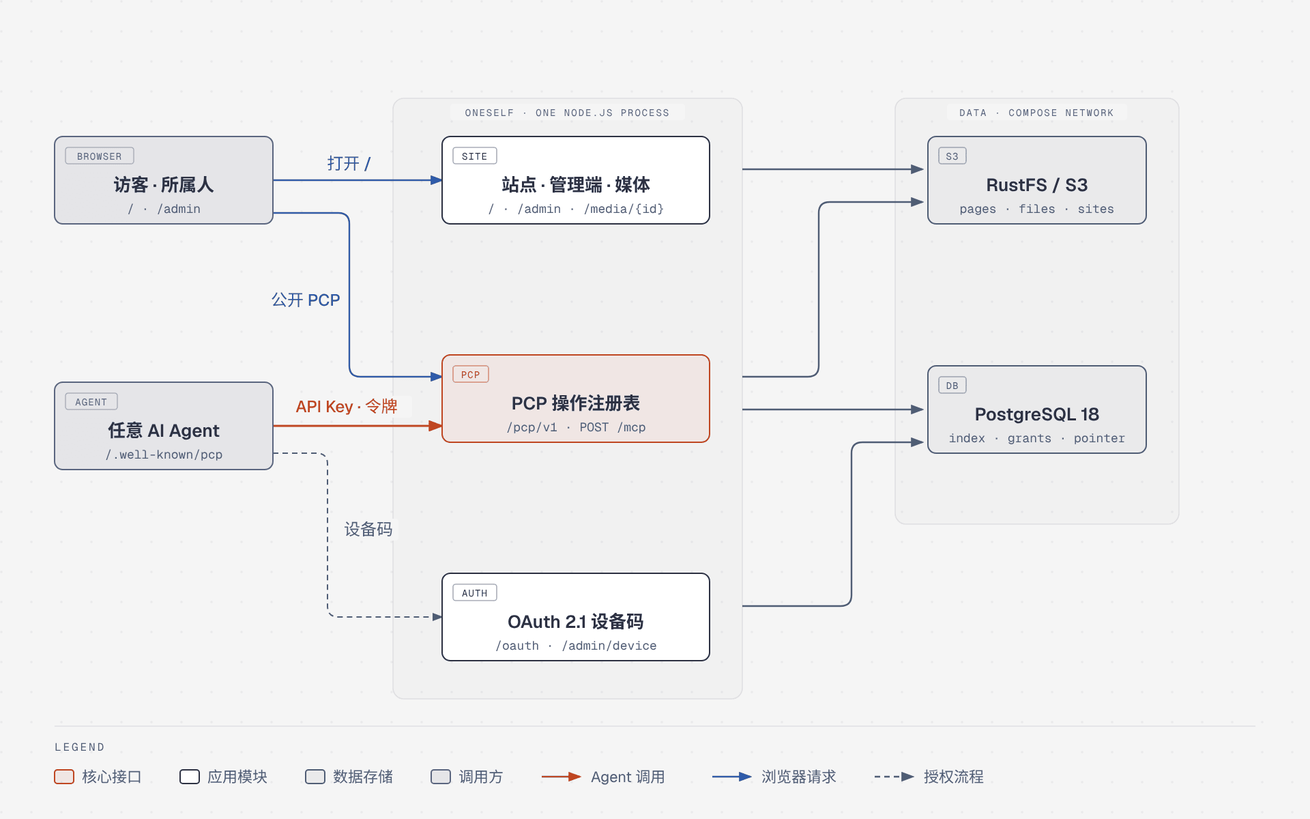
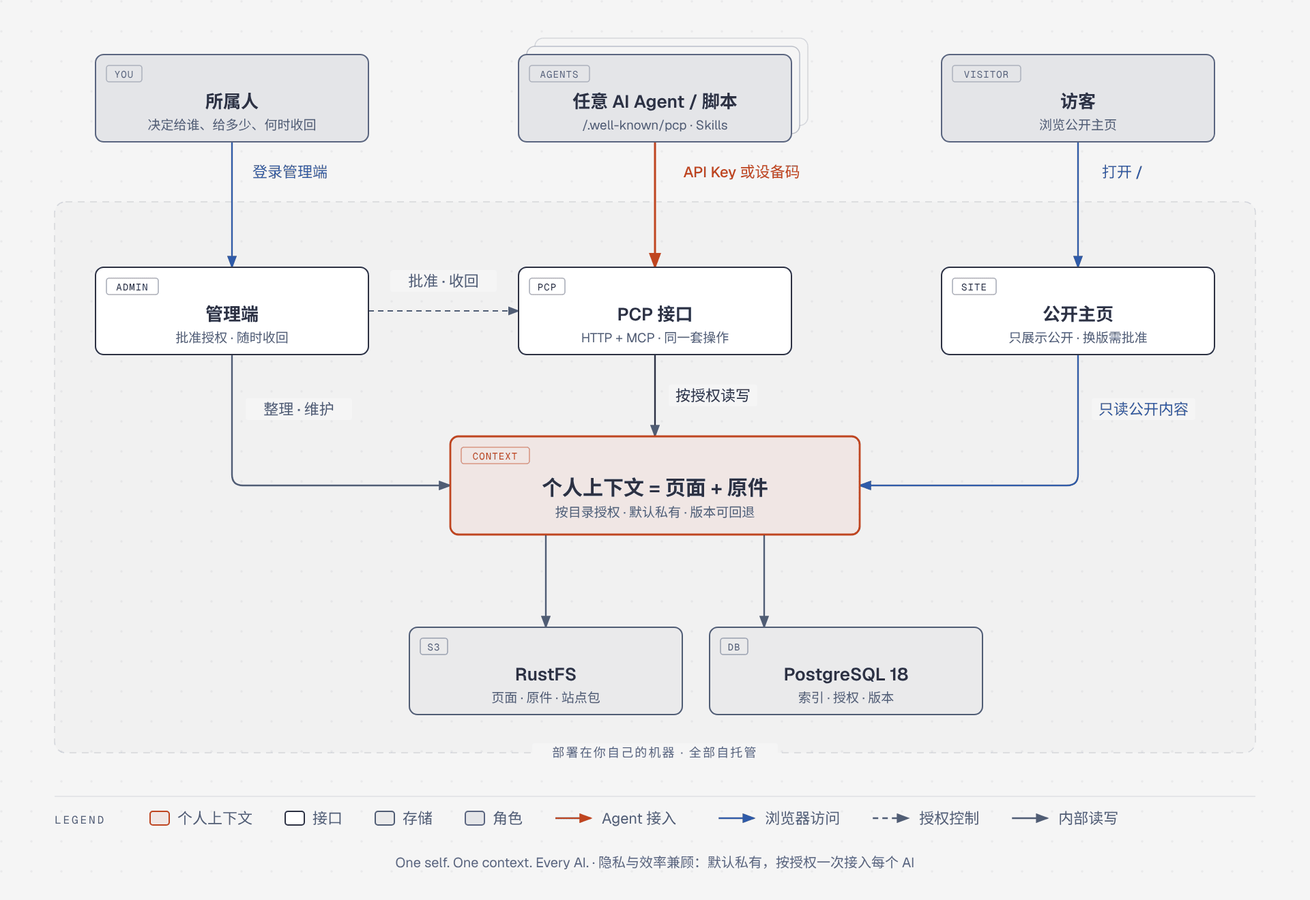
docs: unify terminology and redraw architecture diagram
Repo-wide: 主人 -> 所属人; agents described uniformly (API Key or OAuth device code, both approved by the account owner); positioning as personal context management across PRD, ARCHITECTURE, openspec, skills, admin UI and .env.example. New top-down architecture diagram centred on personal context (pages + originals). Tests updated for skill wording.

diff --git a/docs/diagrams/architecture.html b/docs/diagrams/architecture.html
@@ -3,7 +3,7 @@
 <head>
   <meta charset="UTF-8">
   <meta name="viewport" content="width=device-width, initial-scale=1.0">
-  <title>OneSelf · 系统架构</title>
+  <title>OneSelf · 架构</title>
   <link href="https://fonts.googleapis.com/css2?family=Instrument+Serif:ital@0;1&family=Geist:wght@400;500;600&family=Geist+Mono:wght@400;500;600&family=Noto+Sans+SC:wght@400;500;600&display=swap" rel="stylesheet">
   <style>
     *, *::before, *::after { box-sizing: border-box; margin: 0; padding: 0; }
@@ -20,11 +20,11 @@
 <body>
   <div class="frame">
     <p class="eyebrow">Architecture · OneSelf</p>
-    <h1>OneSelf 系统架构</h1>
+    <h1>OneSelf 架构：开源个人上下文管理</h1>
     <div class="diagram-container">
-    <svg viewBox="0 0 960 600" xmlns="http://www.w3.org/2000/svg" role="img" aria-labelledby="oneself-architecture-title oneself-architecture-desc">
-  <title id="oneself-architecture-title">OneSelf 系统架构</title>
-  <desc id="oneself-architecture-desc">访客和所属人的浏览器打开按指针提供的站点与管理端，页面脚本匿名读取公开 PCP；任意 AI Agent 用所属人批准的 API Key 或 OAuth 2.1 设备码换来的访问令牌，调用同一份 PCP 操作注册表（HTTP 与 MCP）；单个 Node.js 进程把页面原文、原件和站点包存进 RustFS，把索引、授权和站点指针存进 PostgreSQL。</desc>
+    <svg viewBox="0 0 960 660" xmlns="http://www.w3.org/2000/svg" role="img" aria-labelledby="oneself-architecture-title oneself-architecture-desc">
+  <title id="oneself-architecture-title">OneSelf 架构：开源个人上下文管理</title>
+  <desc id="oneself-architecture-desc">所属人通过管理端批准授权、随时收回，也在管理端整理和维护个人上下文；任意 AI Agent 或脚本经所属人批准的 API Key 或 OAuth 2.1 设备码接入 PCP 接口（HTTP 与 MCP 是同一套操作），按授权读写；访客打开公开主页，页面只读取公开内容，换版需要所属人批准。个人上下文由页面和原件组成，按目录授权、默认私有、版本可回退；页面、原件和站点包存进 RustFS，索引、授权和版本存进 PostgreSQL，全部部署在你自己的机器上。</desc>
   <defs>
     <pattern id="dots" width="22" height="22" patternUnits="userSpaceOnUse"><circle cx="1" cy="1" r="0.9" fill="rgba(45,49,66,0.10)"/></pattern>
     <marker id="arrow" markerWidth="8" markerHeight="6" refX="7" refY="3" orient="auto"><polygon points="0 0, 8 3, 0 6" fill="#4f5d75"/></marker>
@@ -33,86 +33,107 @@
   </defs>
   <rect width="100%" height="100%" fill="#f5f5f5"/>
   <rect width="100%" height="100%" fill="url(#dots)" opacity="0.55"/>
-  <rect x="288" y="72" width="256" height="440" rx="8" fill="rgba(45,49,66,0.02)" stroke="rgba(45,49,66,0.10)" stroke-width="0.8"/>
-  <rect x="330.0" y="76" width="172" height="12" rx="2" fill="#f5f5f5"/>
-  <text x="416.0" y="85" fill="#5a6580" font-size="7" font-family="'Geist Mono',ui-monospace,monospace" text-anchor="middle" letter-spacing="0.14em">ONESELF · ONE NODE.JS PROCESS</text>
-  <rect x="656" y="72" width="208" height="312" rx="8" fill="rgba(45,49,66,0.02)" stroke="rgba(45,49,66,0.10)" stroke-width="0.8"/>
-  <rect x="694.0" y="76" width="132" height="12" rx="2" fill="#f5f5f5"/>
-  <text x="760.0" y="85" fill="#5a6580" font-size="7" font-family="'Geist Mono',ui-monospace,monospace" text-anchor="middle" letter-spacing="0.14em">DATA · COMPOSE NETWORK</text>
-  <path d="M 200,132 H 324" fill="none" stroke="#2e5aa8" stroke-width="1.2" marker-end="url(#arrow-link)"/>
-  <path d="M 200,156 H 248 Q 256,156 256,164 V 268 Q 256,276 264,276 H 324" fill="none" stroke="#2e5aa8" stroke-width="1.2" marker-end="url(#arrow-link)"/>
-  <path d="M 200,312 H 324" fill="none" stroke="#bf4520" stroke-width="1.4" marker-end="url(#arrow-accent)"/>
-  <path d="M 200,332 H 232 Q 240,332 240,340 V 444 Q 240,452 248,452 H 324" fill="none" stroke="#4f5d75" stroke-width="1" stroke-dasharray="4,3" marker-end="url(#arrow)"/>
-  <path d="M 544,124 H 676" fill="none" stroke="#4f5d75" stroke-width="1.2" marker-end="url(#arrow)"/>
-  <path d="M 544,276 H 592 Q 600,276 600,268 V 156 Q 600,148 608,148 H 676" fill="none" stroke="#4f5d75" stroke-width="1.2" marker-end="url(#arrow)"/>
-  <path d="M 544,300 H 676" fill="none" stroke="#4f5d75" stroke-width="1.2" marker-end="url(#arrow)"/>
-  <path d="M 544,444 H 616 Q 624,444 624,436 V 332 Q 624,324 632,324 H 676" fill="none" stroke="#4f5d75" stroke-width="1.2" marker-end="url(#arrow)"/>
-  <rect x="228" y="112" width="56" height="16" rx="2" fill="#f5f5f5"/>
-  <text x="256.0" y="124" fill="#2e5aa8" font-size="12" font-weight="500" font-family="'Geist','Noto Sans SC','PingFang SC','Noto Sans CJK SC','Microsoft YaHei',system-ui,sans-serif" text-anchor="middle">打开 /</text>
-  <rect x="196" y="212" width="56" height="16" rx="2" fill="#f5f5f5"/>
-  <text x="224.0" y="224" fill="#2e5aa8" font-size="12" font-weight="500" font-family="'Geist','Noto Sans SC','PingFang SC','Noto Sans CJK SC','Microsoft YaHei',system-ui,sans-serif" text-anchor="middle">公开 PCP</text>
-  <rect x="206" y="290" width="96" height="16" rx="2" fill="#f5f5f5"/>
-  <text x="254.0" y="302" fill="#bf4520" font-size="12" font-weight="500" font-family="'Geist','Noto Sans SC','PingFang SC','Noto Sans CJK SC','Microsoft YaHei',system-ui,sans-serif" text-anchor="middle">API Key · 令牌</text>
-  <rect x="248" y="380" width="44" height="16" rx="2" fill="#f5f5f5"/>
-  <text x="270.0" y="392" fill="#4f5d75" font-size="12" font-weight="500" font-family="'Geist','Noto Sans SC','PingFang SC','Noto Sans CJK SC','Microsoft YaHei',system-ui,sans-serif" text-anchor="middle">设备码</text>
-  <rect x="40" y="100" width="160" height="64" rx="6" fill="#f5f5f5"/>
-  <rect x="40" y="100" width="160" height="64" rx="6" fill="rgba(79,93,117,0.10)" stroke="#5a6580" stroke-width="1"/>
-  <rect x="48" y="108" width="50" height="12" rx="2" fill="transparent" stroke="rgba(90,101,128,0.40)" stroke-width="0.8"/>
-  <text x="73.0" y="117" fill="#5a6580" font-size="7" font-family="'Geist Mono',ui-monospace,monospace" text-anchor="middle" letter-spacing="0.08em">BROWSER</text>
-  <text x="120.0" y="140.0" fill="#2d3142" font-size="13" font-weight="600" font-family="'Geist','Noto Sans SC','PingFang SC','Noto Sans CJK SC','Microsoft YaHei',system-ui,sans-serif" text-anchor="middle">访客 · 所属人</text>
-  <text x="120.0" y="156.0" fill="#4f5d75" font-size="9" font-family="'Geist Mono',ui-monospace,monospace" text-anchor="middle">/ · /admin</text>
-  <rect x="40" y="280" width="160" height="64" rx="6" fill="#f5f5f5"/>
-  <rect x="40" y="280" width="160" height="64" rx="6" fill="rgba(79,93,117,0.10)" stroke="#5a6580" stroke-width="1"/>
-  <rect x="48" y="288" width="38" height="12" rx="2" fill="transparent" stroke="rgba(90,101,128,0.40)" stroke-width="0.8"/>
-  <text x="67.0" y="297" fill="#5a6580" font-size="7" font-family="'Geist Mono',ui-monospace,monospace" text-anchor="middle" letter-spacing="0.08em">AGENT</text>
-  <text x="120.0" y="320.0" fill="#2d3142" font-size="13" font-weight="600" font-family="'Geist','Noto Sans SC','PingFang SC','Noto Sans CJK SC','Microsoft YaHei',system-ui,sans-serif" text-anchor="middle">任意 AI Agent</text>
-  <text x="120.0" y="336.0" fill="#4f5d75" font-size="9" font-family="'Geist Mono',ui-monospace,monospace" text-anchor="middle">/.well-known/pcp</text>
-  <rect x="324" y="100" width="196" height="64" rx="6" fill="#f5f5f5"/>
-  <rect x="324" y="100" width="196" height="64" rx="6" fill="#ffffff" stroke="#2d3142" stroke-width="1"/>
-  <rect x="332" y="108" width="32" height="12" rx="2" fill="transparent" stroke="rgba(45,49,66,0.40)" stroke-width="0.8"/>
-  <text x="348.0" y="117" fill="#2d3142" font-size="7" font-family="'Geist Mono',ui-monospace,monospace" text-anchor="middle" letter-spacing="0.08em">SITE</text>
-  <text x="422.0" y="140.0" fill="#2d3142" font-size="13" font-weight="600" font-family="'Geist','Noto Sans SC','PingFang SC','Noto Sans CJK SC','Microsoft YaHei',system-ui,sans-serif" text-anchor="middle">站点 · 管理端 · 媒体</text>
-  <text x="422.0" y="156.0" fill="#4f5d75" font-size="9" font-family="'Geist Mono',ui-monospace,monospace" text-anchor="middle">/ · /admin · /media/{id}</text>
-  <rect x="324" y="260" width="196" height="64" rx="6" fill="#f5f5f5"/>
-  <rect x="324" y="260" width="196" height="64" rx="6" fill="rgba(191,69,32,0.08)" stroke="#bf4520" stroke-width="1"/>
-  <rect x="332" y="268" width="26" height="12" rx="2" fill="transparent" stroke="rgba(191,69,32,0.50)" stroke-width="0.8"/>
-  <text x="345.0" y="277" fill="#bf4520" font-size="7" font-family="'Geist Mono',ui-monospace,monospace" text-anchor="middle" letter-spacing="0.08em">PCP</text>
-  <text x="422.0" y="300.0" fill="#2d3142" font-size="13" font-weight="600" font-family="'Geist','Noto Sans SC','PingFang SC','Noto Sans CJK SC','Microsoft YaHei',system-ui,sans-serif" text-anchor="middle">PCP 操作注册表</text>
-  <text x="422.0" y="316.0" fill="#4f5d75" font-size="9" font-family="'Geist Mono',ui-monospace,monospace" text-anchor="middle">/pcp/v1 · POST /mcp</text>
-  <rect x="324" y="420" width="196" height="64" rx="6" fill="#f5f5f5"/>
-  <rect x="324" y="420" width="196" height="64" rx="6" fill="#ffffff" stroke="#2d3142" stroke-width="1"/>
-  <rect x="332" y="428" width="32" height="12" rx="2" fill="transparent" stroke="rgba(45,49,66,0.40)" stroke-width="0.8"/>
-  <text x="348.0" y="437" fill="#2d3142" font-size="7" font-family="'Geist Mono',ui-monospace,monospace" text-anchor="middle" letter-spacing="0.08em">AUTH</text>
-  <text x="422.0" y="460.0" fill="#2d3142" font-size="13" font-weight="600" font-family="'Geist','Noto Sans SC','PingFang SC','Noto Sans CJK SC','Microsoft YaHei',system-ui,sans-serif" text-anchor="middle">OAuth 2.1 设备码</text>
-  <text x="422.0" y="476.0" fill="#4f5d75" font-size="9" font-family="'Geist Mono',ui-monospace,monospace" text-anchor="middle">/oauth · /admin/device</text>
-  <rect x="680" y="100" width="160" height="64" rx="6" fill="#f5f5f5"/>
-  <rect x="680" y="100" width="160" height="64" rx="6" fill="rgba(45,49,66,0.05)" stroke="#4f5d75" stroke-width="1"/>
-  <rect x="688" y="108" width="20" height="12" rx="2" fill="transparent" stroke="rgba(79,93,117,0.50)" stroke-width="0.8"/>
-  <text x="698.0" y="117" fill="#4f5d75" font-size="7" font-family="'Geist Mono',ui-monospace,monospace" text-anchor="middle" letter-spacing="0.08em">S3</text>
-  <text x="760.0" y="140.0" fill="#2d3142" font-size="13" font-weight="600" font-family="'Geist','Noto Sans SC','PingFang SC','Noto Sans CJK SC','Microsoft YaHei',system-ui,sans-serif" text-anchor="middle">RustFS / S3</text>
-  <text x="760.0" y="156.0" fill="#4f5d75" font-size="9" font-family="'Geist Mono',ui-monospace,monospace" text-anchor="middle">pages · files · sites</text>
-  <rect x="680" y="268" width="160" height="64" rx="6" fill="#f5f5f5"/>
-  <rect x="680" y="268" width="160" height="64" rx="6" fill="rgba(45,49,66,0.05)" stroke="#4f5d75" stroke-width="1"/>
-  <rect x="688" y="276" width="20" height="12" rx="2" fill="transparent" stroke="rgba(79,93,117,0.50)" stroke-width="0.8"/>
-  <text x="698.0" y="285" fill="#4f5d75" font-size="7" font-family="'Geist Mono',ui-monospace,monospace" text-anchor="middle" letter-spacing="0.08em">DB</text>
-  <text x="760.0" y="308.0" fill="#2d3142" font-size="13" font-weight="600" font-family="'Geist','Noto Sans SC','PingFang SC','Noto Sans CJK SC','Microsoft YaHei',system-ui,sans-serif" text-anchor="middle">PostgreSQL 18</text>
-  <text x="760.0" y="324.0" fill="#4f5d75" font-size="9" font-family="'Geist Mono',ui-monospace,monospace" text-anchor="middle">index · grants · pointer</text>
-  <line x1="40" y1="532" x2="920" y2="532" stroke="rgba(45,49,66,0.10)" stroke-width="0.8"/>
-  <text x="40" y="550" fill="#4f5d75" font-size="8" font-family="'Geist Mono',ui-monospace,monospace" letter-spacing="0.18em">LEGEND</text>
-  <rect x="40" y="564" width="14" height="10" rx="2" fill="rgba(191,69,32,0.08)" stroke="#bf4520" stroke-width="1"/>
-  <text x="60" y="573" fill="#4f5d75" font-size="11" font-family="'Geist','Noto Sans SC','PingFang SC','Noto Sans CJK SC','Microsoft YaHei',system-ui,sans-serif">核心接口</text>
-  <rect x="132" y="564" width="14" height="10" rx="2" fill="#ffffff" stroke="#2d3142" stroke-width="1"/>
-  <text x="152" y="573" fill="#4f5d75" font-size="11" font-family="'Geist','Noto Sans SC','PingFang SC','Noto Sans CJK SC','Microsoft YaHei',system-ui,sans-serif">应用模块</text>
-  <rect x="224" y="564" width="14" height="10" rx="2" fill="rgba(45,49,66,0.05)" stroke="#4f5d75" stroke-width="1"/>
-  <text x="244" y="573" fill="#4f5d75" font-size="11" font-family="'Geist','Noto Sans SC','PingFang SC','Noto Sans CJK SC','Microsoft YaHei',system-ui,sans-serif">数据存储</text>
-  <rect x="316" y="564" width="14" height="10" rx="2" fill="rgba(79,93,117,0.10)" stroke="#5a6580" stroke-width="1"/>
-  <text x="336" y="573" fill="#4f5d75" font-size="11" font-family="'Geist','Noto Sans SC','PingFang SC','Noto Sans CJK SC','Microsoft YaHei',system-ui,sans-serif">调用方</text>
-  <line x1="397" y1="569" x2="425" y2="569" stroke="#bf4520" stroke-width="1.2" marker-end="url(#arrow-accent)"/>
-  <text x="433" y="573" fill="#4f5d75" font-size="11" font-family="'Geist','Noto Sans SC','PingFang SC','Noto Sans CJK SC','Microsoft YaHei',system-ui,sans-serif">Agent 调用</text>
-  <line x1="522.0" y1="569" x2="550.0" y2="569" stroke="#2e5aa8" stroke-width="1.2" marker-end="url(#arrow-link)"/>
-  <text x="558.0" y="573" fill="#4f5d75" font-size="11" font-family="'Geist','Noto Sans SC','PingFang SC','Noto Sans CJK SC','Microsoft YaHei',system-ui,sans-serif">浏览器请求</text>
-  <line x1="641.0" y1="569" x2="669.0" y2="569" stroke="#4f5d75" stroke-width="1.2" stroke-dasharray="4,3" marker-end="url(#arrow)"/>
-  <text x="677.0" y="573" fill="#4f5d75" font-size="11" font-family="'Geist','Noto Sans SC','PingFang SC','Noto Sans CJK SC','Microsoft YaHei',system-ui,sans-serif">授权流程</text>
+  <rect x="40" y="148" width="880" height="404" rx="8" fill="rgba(45,49,66,0.02)" stroke="rgba(45,49,66,0.14)" stroke-width="0.8" stroke-dasharray="5,4"/>
+  <rect x="390.0" y="545" width="180" height="12" rx="2" fill="#f5f5f5"/>
+  <text x="480" y="555" fill="#5a6580" font-size="9" font-family="'Geist','Noto Sans SC','PingFang SC','Noto Sans CJK SC','Microsoft YaHei',system-ui,sans-serif" text-anchor="middle" letter-spacing="0.12em">部署在你自己的机器 · 全部自托管</text>
+  <path d="M 170,104 V 196" fill="none" stroke="#2e5aa8" stroke-width="1.2" marker-end="url(#arrow-link)"/>
+  <path d="M 480,104 V 196" fill="none" stroke="#bf4520" stroke-width="1.5" marker-end="url(#arrow-accent)"/>
+  <path d="M 790,104 V 196" fill="none" stroke="#2e5aa8" stroke-width="1.2" marker-end="url(#arrow-link)"/>
+  <path d="M 270,228 H 380" fill="none" stroke="#4f5d75" stroke-width="1.1" stroke-dasharray="4,3" marker-end="url(#arrow)"/>
+  <path d="M 480,260 V 320" fill="none" stroke="#2d3142" stroke-width="1.2" marker-end="url(#arrow)"/>
+  <path d="M 790,260 V 348 Q 790,356 782,356 H 630" fill="none" stroke="#2e5aa8" stroke-width="1.2" marker-end="url(#arrow-link)"/>
+  <path d="M 170,260 V 348 Q 170,356 178,356 H 330" fill="none" stroke="#4f5d75" stroke-width="1.2" marker-end="url(#arrow)"/>
+  <path d="M 400,392 V 460" fill="none" stroke="#4f5d75" stroke-width="1.2" marker-end="url(#arrow)"/>
+  <path d="M 560,392 V 460" fill="none" stroke="#4f5d75" stroke-width="1.2" marker-end="url(#arrow)"/>
+  <rect x="180" y="118" width="65" height="16" rx="2" fill="#f5f5f5"/>
+  <text x="212.5" y="130" fill="#2e5aa8" font-size="11" font-weight="500" font-family="'Geist','Noto Sans SC','PingFang SC','Noto Sans CJK SC','Microsoft YaHei',system-ui,sans-serif" text-anchor="middle">登录管理端</text>
+  <rect x="490" y="118" width="107" height="16" rx="2" fill="#f5f5f5"/>
+  <text x="543.5" y="130" fill="#bf4520" font-size="11" font-weight="500" font-family="'Geist','Noto Sans SC','PingFang SC','Noto Sans CJK SC','Microsoft YaHei',system-ui,sans-serif" text-anchor="middle">API Key 或设备码</text>
+  <rect x="800" y="118" width="45" height="16" rx="2" fill="#f5f5f5"/>
+  <text x="822.5" y="130" fill="#2e5aa8" font-size="11" font-weight="500" font-family="'Geist','Noto Sans SC','PingFang SC','Noto Sans CJK SC','Microsoft YaHei',system-ui,sans-serif" text-anchor="middle">打开 /</text>
+  <rect x="286.0" y="198" width="78" height="16" rx="2" fill="#f5f5f5"/>
+  <text x="325.0" y="210" fill="#4f5d75" font-size="11" font-weight="500" font-family="'Geist','Noto Sans SC','PingFang SC','Noto Sans CJK SC','Microsoft YaHei',system-ui,sans-serif" text-anchor="middle">批准 · 收回</text>
+  <rect x="490" y="282" width="65" height="16" rx="2" fill="#f5f5f5"/>
+  <text x="522.5" y="294" fill="#2d3142" font-size="11" font-weight="500" font-family="'Geist','Noto Sans SC','PingFang SC','Noto Sans CJK SC','Microsoft YaHei',system-ui,sans-serif" text-anchor="middle">按授权读写</text>
+  <rect x="180" y="292" width="78" height="16" rx="2" fill="#f5f5f5"/>
+  <text x="219.0" y="304" fill="#4f5d75" font-size="11" font-weight="500" font-family="'Geist','Noto Sans SC','PingFang SC','Noto Sans CJK SC','Microsoft YaHei',system-ui,sans-serif" text-anchor="middle">整理 · 维护</text>
+  <rect x="800" y="292" width="76" height="16" rx="2" fill="#f5f5f5"/>
+  <text x="838.0" y="304" fill="#2e5aa8" font-size="11" font-weight="500" font-family="'Geist','Noto Sans SC','PingFang SC','Noto Sans CJK SC','Microsoft YaHei',system-ui,sans-serif" text-anchor="middle">只读公开内容</text>
+  <rect x="392" y="28" width="200" height="64" rx="6" fill="#f5f5f5" stroke="rgba(90,101,128,0.2)" stroke-width="0.8"/>
+  <rect x="386" y="34" width="200" height="64" rx="6" fill="#f5f5f5" stroke="rgba(90,101,128,0.36)" stroke-width="0.8"/>
+  <rect x="70" y="40" width="200" height="64" rx="6" fill="#f5f5f5"/>
+  <rect x="70" y="40" width="200" height="64" rx="6" fill="rgba(79,93,117,0.10)" stroke="#5a6580" stroke-width="1"/>
+  <rect x="78" y="48" width="26" height="12" rx="2" fill="transparent" stroke="rgba(90,101,128,0.40)" stroke-width="0.8"/>
+  <text x="91.0" y="57" fill="#5a6580" font-size="7" font-family="'Geist Mono',ui-monospace,monospace" text-anchor="middle" letter-spacing="0.08em">YOU</text>
+  <text x="170.0" y="79.0" fill="#2d3142" font-size="13" font-weight="600" font-family="'Geist','Noto Sans SC','PingFang SC','Noto Sans CJK SC','Microsoft YaHei',system-ui,sans-serif" text-anchor="middle">所属人</text>
+  <text x="170.0" y="95.0" fill="#4f5d75" font-size="9.5" font-family="'Geist','Noto Sans SC','PingFang SC','Noto Sans CJK SC','Microsoft YaHei',system-ui,sans-serif" text-anchor="middle">决定给谁、给多少、何时收回</text>
+  <rect x="380" y="40" width="200" height="64" rx="6" fill="#f5f5f5"/>
+  <rect x="380" y="40" width="200" height="64" rx="6" fill="rgba(79,93,117,0.10)" stroke="#5a6580" stroke-width="1"/>
+  <rect x="388" y="48" width="44" height="12" rx="2" fill="transparent" stroke="rgba(90,101,128,0.40)" stroke-width="0.8"/>
+  <text x="410.0" y="57" fill="#5a6580" font-size="7" font-family="'Geist Mono',ui-monospace,monospace" text-anchor="middle" letter-spacing="0.08em">AGENTS</text>
+  <text x="480.0" y="79.0" fill="#2d3142" font-size="13" font-weight="600" font-family="'Geist','Noto Sans SC','PingFang SC','Noto Sans CJK SC','Microsoft YaHei',system-ui,sans-serif" text-anchor="middle">任意 AI Agent / 脚本</text>
+  <text x="480.0" y="95.0" fill="#4f5d75" font-size="9.5" font-family="'Geist','Noto Sans SC','PingFang SC','Noto Sans CJK SC','Microsoft YaHei',system-ui,sans-serif" text-anchor="middle">/.well-known/pcp · Skills</text>
+  <rect x="690" y="40" width="200" height="64" rx="6" fill="#f5f5f5"/>
+  <rect x="690" y="40" width="200" height="64" rx="6" fill="rgba(79,93,117,0.10)" stroke="#5a6580" stroke-width="1"/>
+  <rect x="698" y="48" width="50" height="12" rx="2" fill="transparent" stroke="rgba(90,101,128,0.40)" stroke-width="0.8"/>
+  <text x="723.0" y="57" fill="#5a6580" font-size="7" font-family="'Geist Mono',ui-monospace,monospace" text-anchor="middle" letter-spacing="0.08em">VISITOR</text>
+  <text x="790.0" y="79.0" fill="#2d3142" font-size="13" font-weight="600" font-family="'Geist','Noto Sans SC','PingFang SC','Noto Sans CJK SC','Microsoft YaHei',system-ui,sans-serif" text-anchor="middle">访客</text>
+  <text x="790.0" y="95.0" fill="#4f5d75" font-size="9.5" font-family="'Geist','Noto Sans SC','PingFang SC','Noto Sans CJK SC','Microsoft YaHei',system-ui,sans-serif" text-anchor="middle">浏览公开主页</text>
+  <rect x="70" y="196" width="200" height="64" rx="6" fill="#f5f5f5"/>
+  <rect x="70" y="196" width="200" height="64" rx="6" fill="#ffffff" stroke="#2d3142" stroke-width="1"/>
+  <rect x="78" y="204" width="38" height="12" rx="2" fill="transparent" stroke="rgba(45,49,66,0.40)" stroke-width="0.8"/>
+  <text x="97.0" y="213" fill="#2d3142" font-size="7" font-family="'Geist Mono',ui-monospace,monospace" text-anchor="middle" letter-spacing="0.08em">ADMIN</text>
+  <text x="170.0" y="235.0" fill="#2d3142" font-size="13" font-weight="600" font-family="'Geist','Noto Sans SC','PingFang SC','Noto Sans CJK SC','Microsoft YaHei',system-ui,sans-serif" text-anchor="middle">管理端</text>
+  <text x="170.0" y="251.0" fill="#4f5d75" font-size="9.5" font-family="'Geist','Noto Sans SC','PingFang SC','Noto Sans CJK SC','Microsoft YaHei',system-ui,sans-serif" text-anchor="middle">批准授权 · 随时收回</text>
+  <rect x="380" y="196" width="200" height="64" rx="6" fill="#f5f5f5"/>
+  <rect x="380" y="196" width="200" height="64" rx="6" fill="#ffffff" stroke="#2d3142" stroke-width="1"/>
+  <rect x="388" y="204" width="26" height="12" rx="2" fill="transparent" stroke="rgba(45,49,66,0.40)" stroke-width="0.8"/>
+  <text x="401.0" y="213" fill="#2d3142" font-size="7" font-family="'Geist Mono',ui-monospace,monospace" text-anchor="middle" letter-spacing="0.08em">PCP</text>
+  <text x="480.0" y="235.0" fill="#2d3142" font-size="13" font-weight="600" font-family="'Geist','Noto Sans SC','PingFang SC','Noto Sans CJK SC','Microsoft YaHei',system-ui,sans-serif" text-anchor="middle">PCP 接口</text>
+  <text x="480.0" y="251.0" fill="#4f5d75" font-size="9.5" font-family="'Geist','Noto Sans SC','PingFang SC','Noto Sans CJK SC','Microsoft YaHei',system-ui,sans-serif" text-anchor="middle">HTTP + MCP · 同一套操作</text>
+  <rect x="690" y="196" width="200" height="64" rx="6" fill="#f5f5f5"/>
+  <rect x="690" y="196" width="200" height="64" rx="6" fill="#ffffff" stroke="#2d3142" stroke-width="1"/>
+  <rect x="698" y="204" width="32" height="12" rx="2" fill="transparent" stroke="rgba(45,49,66,0.40)" stroke-width="0.8"/>
+  <text x="714.0" y="213" fill="#2d3142" font-size="7" font-family="'Geist Mono',ui-monospace,monospace" text-anchor="middle" letter-spacing="0.08em">SITE</text>
+  <text x="790.0" y="235.0" fill="#2d3142" font-size="13" font-weight="600" font-family="'Geist','Noto Sans SC','PingFang SC','Noto Sans CJK SC','Microsoft YaHei',system-ui,sans-serif" text-anchor="middle">公开主页</text>
+  <text x="790.0" y="251.0" fill="#4f5d75" font-size="9.5" font-family="'Geist','Noto Sans SC','PingFang SC','Noto Sans CJK SC','Microsoft YaHei',system-ui,sans-serif" text-anchor="middle">只展示公开 · 换版需批准</text>
+  <rect x="330" y="320" width="300" height="72" rx="6" fill="#f5f5f5"/>
+  <rect x="330" y="320" width="300" height="72" rx="6" fill="rgba(191,69,32,0.08)" stroke="#bf4520" stroke-width="1.4"/>
+  <rect x="338" y="328" width="50" height="12" rx="2" fill="transparent" stroke="rgba(191,69,32,0.50)" stroke-width="0.8"/>
+  <text x="363.0" y="337" fill="#bf4520" font-size="7" font-family="'Geist Mono',ui-monospace,monospace" text-anchor="middle" letter-spacing="0.08em">CONTEXT</text>
+  <text x="480.0" y="363.0" fill="#2d3142" font-size="15" font-weight="600" font-family="'Geist','Noto Sans SC','PingFang SC','Noto Sans CJK SC','Microsoft YaHei',system-ui,sans-serif" text-anchor="middle">个人上下文 = 页面 + 原件</text>
+  <text x="480.0" y="379.0" fill="#4f5d75" font-size="9.5" font-family="'Geist','Noto Sans SC','PingFang SC','Noto Sans CJK SC','Microsoft YaHei',system-ui,sans-serif" text-anchor="middle">按目录授权 · 默认私有 · 版本可回退</text>
+  <rect x="300" y="460" width="200" height="64" rx="6" fill="#f5f5f5"/>
+  <rect x="300" y="460" width="200" height="64" rx="6" fill="rgba(45,49,66,0.05)" stroke="#4f5d75" stroke-width="1"/>
+  <rect x="308" y="468" width="20" height="12" rx="2" fill="transparent" stroke="rgba(79,93,117,0.50)" stroke-width="0.8"/>
+  <text x="318.0" y="477" fill="#4f5d75" font-size="7" font-family="'Geist Mono',ui-monospace,monospace" text-anchor="middle" letter-spacing="0.08em">S3</text>
+  <text x="400.0" y="499.0" fill="#2d3142" font-size="13" font-weight="600" font-family="'Geist','Noto Sans SC','PingFang SC','Noto Sans CJK SC','Microsoft YaHei',system-ui,sans-serif" text-anchor="middle">RustFS</text>
+  <text x="400.0" y="515.0" fill="#4f5d75" font-size="9.5" font-family="'Geist','Noto Sans SC','PingFang SC','Noto Sans CJK SC','Microsoft YaHei',system-ui,sans-serif" text-anchor="middle">页面 · 原件 · 站点包</text>
+  <rect x="520" y="460" width="200" height="64" rx="6" fill="#f5f5f5"/>
+  <rect x="520" y="460" width="200" height="64" rx="6" fill="rgba(45,49,66,0.05)" stroke="#4f5d75" stroke-width="1"/>
+  <rect x="528" y="468" width="20" height="12" rx="2" fill="transparent" stroke="rgba(79,93,117,0.50)" stroke-width="0.8"/>
+  <text x="538.0" y="477" fill="#4f5d75" font-size="7" font-family="'Geist Mono',ui-monospace,monospace" text-anchor="middle" letter-spacing="0.08em">DB</text>
+  <text x="620.0" y="499.0" fill="#2d3142" font-size="13" font-weight="600" font-family="'Geist','Noto Sans SC','PingFang SC','Noto Sans CJK SC','Microsoft YaHei',system-ui,sans-serif" text-anchor="middle">PostgreSQL 18</text>
+  <text x="620.0" y="515.0" fill="#4f5d75" font-size="9.5" font-family="'Geist','Noto Sans SC','PingFang SC','Noto Sans CJK SC','Microsoft YaHei',system-ui,sans-serif" text-anchor="middle">索引 · 授权 · 版本</text>
+  <line x1="40" y1="584" x2="920" y2="584" stroke="rgba(45,49,66,0.10)" stroke-width="0.8"/>
+  <text x="40" y="604" fill="#4f5d75" font-size="8" font-family="'Geist Mono',ui-monospace,monospace" letter-spacing="0.18em">LEGEND</text>
+  <rect x="110" y="595" width="14" height="10" rx="2" fill="rgba(191,69,32,0.08)" stroke="#bf4520" stroke-width="1"/>
+  <text x="130" y="604" fill="#4f5d75" font-size="11" font-family="'Geist','Noto Sans SC','PingFang SC','Noto Sans CJK SC','Microsoft YaHei',system-ui,sans-serif">个人上下文</text>
+  <rect x="209" y="595" width="14" height="10" rx="2" fill="#ffffff" stroke="#2d3142" stroke-width="1"/>
+  <text x="229" y="604" fill="#4f5d75" font-size="11" font-family="'Geist','Noto Sans SC','PingFang SC','Noto Sans CJK SC','Microsoft YaHei',system-ui,sans-serif">接口</text>
+  <rect x="275" y="595" width="14" height="10" rx="2" fill="rgba(45,49,66,0.05)" stroke="#4f5d75" stroke-width="1"/>
+  <text x="295" y="604" fill="#4f5d75" font-size="11" font-family="'Geist','Noto Sans SC','PingFang SC','Noto Sans CJK SC','Microsoft YaHei',system-ui,sans-serif">存储</text>
+  <rect x="341" y="595" width="14" height="10" rx="2" fill="rgba(79,93,117,0.10)" stroke="#5a6580" stroke-width="1"/>
+  <text x="361" y="604" fill="#4f5d75" font-size="11" font-family="'Geist','Noto Sans SC','PingFang SC','Noto Sans CJK SC','Microsoft YaHei',system-ui,sans-serif">角色</text>
+  <line x1="407" y1="600" x2="433" y2="600" stroke="#bf4520" stroke-width="1.2" marker-end="url(#arrow-accent)"/>
+  <text x="441" y="604" fill="#4f5d75" font-size="11" font-family="'Geist','Noto Sans SC','PingFang SC','Noto Sans CJK SC','Microsoft YaHei',system-ui,sans-serif">Agent 接入</text>
+  <line x1="526.6" y1="600" x2="552.6" y2="600" stroke="#2e5aa8" stroke-width="1.2" marker-end="url(#arrow-link)"/>
+  <text x="560.6" y="604" fill="#4f5d75" font-size="11" font-family="'Geist','Noto Sans SC','PingFang SC','Noto Sans CJK SC','Microsoft YaHei',system-ui,sans-serif">浏览器访问</text>
+  <line x1="639.6" y1="600" x2="665.6" y2="600" stroke="#4f5d75" stroke-width="1.2" stroke-dasharray="4,3" marker-end="url(#arrow)"/>
+  <text x="673.6" y="604" fill="#4f5d75" font-size="11" font-family="'Geist','Noto Sans SC','PingFang SC','Noto Sans CJK SC','Microsoft YaHei',system-ui,sans-serif">授权控制</text>
+  <line x1="741.6" y1="600" x2="767.6" y2="600" stroke="#4f5d75" stroke-width="1.2" marker-end="url(#arrow)"/>
+  <text x="775.6" y="604" fill="#4f5d75" font-size="11" font-family="'Geist','Noto Sans SC','PingFang SC','Noto Sans CJK SC','Microsoft YaHei',system-ui,sans-serif">内部读写</text>
+  <text x="480" y="636" fill="#5a6580" font-size="10" font-family="'Geist','Noto Sans SC','PingFang SC','Noto Sans CJK SC','Microsoft YaHei',system-ui,sans-serif" text-anchor="middle">One self. One context. Every AI. · 隐私与效率兼顾：默认私有，按授权一次接入每个 AI</text>
 </svg>
     </div>
   </div>

diff --git a/apps/admin/src/views.ts b/apps/admin/src/views.ts
@@ -85,7 +85,7 @@ export function LoginView(props: {
       },
     },
     h("h1", null, "登录"),
-    h("p", { className: "muted" }, "使用主人登录名。改密完成前，其他管理操作不会打开。"),
+    h("p", { className: "muted" }, "使用所属人登录名。改密完成前，其他管理操作不会打开。"),
     message(props.message),
     h(
       "label",
@@ -136,7 +136,7 @@ export function PasswordView(props: {
     h(
       "p",
       { className: "muted" },
-      props.locked ? "必须先改密。在此之前只能留在这一页或登出。" : "新密码会替换当前主人密码。",
+      props.locked ? "必须先改密。在此之前只能留在这一页或登出。" : "新密码会替换当前所属人密码。",
     ),
     message(props.message),
     h(

diff --git a/tests/acceptance/skills.test.ts b/tests/acceptance/skills.test.ts
@@ -19,7 +19,7 @@ const requiredSentences = [
   "保留路径",
   "credentials: omit",
   "不得写入密钥或私有页",
-  "批准地址必须交给主人",
+  "批准地址必须交给所属人",
   "同意前不得声称已更换",
   "下一轮必须从原始源码 zip 开始",
 ] as const;
@@ -62,7 +62,7 @@ describe("product skills", () => {
       "_preview",
       "credentials: omit",
       "不得写入密钥或私有页",
-      "批准地址必须交给主人",
+      "批准地址必须交给所属人",
       "同意前不得声称已更换",
       "下一轮必须从原始源码 zip 开始",
       "original-page-source.zip",

diff --git a/apps/admin/src/ui.ts b/apps/admin/src/ui.ts
@@ -38,7 +38,7 @@ export function AdminApp(): ReactElement {
         setSession(
           identity.admin
             ? { status: "ready" }
-            : { status: "anonymous", message: "只有主人可以打开管理端" },
+            : { status: "anonymous", message: "只有所属人可以打开管理端" },
         );
       } catch (reason: unknown) {
         if (!cancelled) setSession(sessionFromProbeFailure(reason));

diff --git a/openspec/changes/oneself-mvp/tasks.md b/openspec/changes/oneself-mvp/tasks.md
@@ -6,7 +6,7 @@
 
 - [x] 1.1 在主工作树创建 pnpm 工作区、TypeScript strict、Vitest 和 dependency-cruiser 配置，包目录先留空的 `package.json`。运行 `pnpm install`，确认它成功且没有 `package-lock.json`。
 - [x] 1.2 添加 `compose.yaml` 和 `compose.dev.yaml`。生产不映射应用、PostgreSQL 或 RustFS 的宿主机端口。开发只把 PostgreSQL 和 RustFS `9000` 绑到回环，不发布 `9001`，应用用 pnpm 跑在宿主机。`cloudflared`、`caddy`、`tailscale` 是互斥 profile，默认 `COMPOSE_PROFILES=cloudflared`。用 `docker compose config` 确认这两种端口结果。
-- [x] 1.3 添加 `.env.example`，包含 `PUBLIC_ORIGIN`、主人初始口令和入口令牌的占位，不含真实密钥。确认示例文件可被提交，而 `.env` 仍被 gitignore。
+- [x] 1.3 添加 `.env.example`，包含 `PUBLIC_ORIGIN`、所属人初始口令和入口令牌的占位，不含真实密钥。确认示例文件可被提交，而 `.env` 仍被 gitignore。
 
 ## 2. 第一波并行车道
 
@@ -16,7 +16,7 @@
 - [x] 2.4 `packages/ports`：定义对象存储、时钟和 Markdown 解析端口。`pnpm exec tsc --noEmit` 在该包通过，且源码不引用厂商 SDK。
 - [x] 2.5 `apps/admin`：实现登录、改密、设备码批准、API Key 批准和站点批准页面，只调用 HTTP。批准页在确认前写明：读权限包含该 source 的全部未删除私有页。生产构建成功，页面源码不引用 `packages/domain` 或 `packages/db`。
 - [x] 2.6 `packages/public-client` 与 `packages/original-pages`：客户端请求公开 PCP 时使用 `credentials: omit`。原始页面在没有公开页时显示空状态，有公开页时按 site 规格展示，未知路径构建结果不启用 SPA 回退。相关测试通过。
-- [x] 2.7 `skills/data.md` 与 `skills/original-page.md`：写明 frontmatter、两种 fence、`files`、`[[source/slug]]`、原始页面能展示的公开字段、真实路径、保留路径、`credentials: omit`、不得写入密钥或私有页、批准地址必须交给主人、同意前不得声称已更换，以及下一轮必须从原始源码 zip 开始。测试断言这些句子存在，且正文不出现 Hono、Express 或 Next.js。
+- [x] 2.7 `skills/data.md` 与 `skills/original-page.md`：写明 frontmatter、两种 fence、`files`、`[[source/slug]]`、原始页面能展示的公开字段、真实路径、保留路径、`credentials: omit`、不得写入密钥或私有页、批准地址必须交给所属人、同意前不得声称已更换，以及下一轮必须从原始源码 zip 开始。测试断言这些句子存在，且正文不出现 Hono、Express 或 Next.js。
 
 ## 3. 主代理登记第一波
 
@@ -27,9 +27,9 @@
 
 - [x] 4.1 `packages/adapters`：实现 RustFS 所用的 S3 端口、Postgres 端口，以及测试用的内存对象存储。单元测试使用内存假实现，不连接生产端点。
 - [x] 4.2 `apps/server` 写入路径：同一事务完成对象指针、投影和最多 50 条版本；`put_pages` 任一页失败则全部不写；fence 失败整次回滚。每小时清理超过 30 天的软删除和超过 7 天且无引用的对象，不删除 release。集成测试覆盖 stale hash、模糊替换、跨页原件和这次清理。
-- [x] 4.3 `apps/server` 读取与检索：实现授权搜索、匿名公开搜索、`query`、`recall`、目录、`whoami`、`resolve_slugs` 和结构读接口。`search` 查 `pages` 的 type、标题、正文和 frontmatter，不查 `chunks`。主人可以软删除和恢复 source；API Key 不能。测试断言私有页不改变公开命中和计数，匿名 `query` 返回 `unauthorized`，无权限、已删除和不存在都是 `not_found`，删除目录后其他页的链接原文不变。
-- [x] 4.4 `apps/server` 站点：按指针提供 `original` 或 release。预览匿名可开且不移动指针。只有主人批准才移动指针。公开资料变化后不用重新激活；已打进 zip 的副本不回收。测试覆盖保留路径整包拒绝、没有删除 release 的路由，以及 Agent 调用批准路由得到 `forbidden`。
-- [x] 4.5 `apps/server` 身份：实现主人引导、改密门、API Key 一次展示、设备码、刷新令牌轮换和重用即作废。测试断言启动不生成 API Key，且 OAuth 不能管理密钥。
+- [x] 4.3 `apps/server` 读取与检索：实现授权搜索、匿名公开搜索、`query`、`recall`、目录、`whoami`、`resolve_slugs` 和结构读接口。`search` 查 `pages` 的 type、标题、正文和 frontmatter，不查 `chunks`。所属人可以软删除和恢复 source；API Key 不能。测试断言私有页不改变公开命中和计数，匿名 `query` 返回 `unauthorized`，无权限、已删除和不存在都是 `not_found`，删除目录后其他页的链接原文不变。
+- [x] 4.4 `apps/server` 站点：按指针提供 `original` 或 release。预览匿名可开且不移动指针。只有所属人批准才移动指针。公开资料变化后不用重新激活；已打进 zip 的副本不回收。测试覆盖保留路径整包拒绝、没有删除 release 的路由，以及 Agent 调用批准路由得到 `forbidden`。
+- [x] 4.5 `apps/server` 身份：实现所属人引导、改密门、API Key 一次展示、设备码、刷新令牌轮换和重用即作废。测试断言启动不生成 API Key，且 OAuth 不能管理密钥。
 - [x] 4.6 `apps/server` 协议与入口：从注册表生成 OpenAPI 和 `POST /mcp`，路径与 protocol 规格一致，不启用 CORS。发现文档只使用 `PUBLIC_ORIGIN`。限流只信任当前入口这一跳。Cloudflare 规则不缓存 `/pcp`、`/oauth`、`/admin`、`/skills`、`/media`、`/_preview`。测试断言 MCP 工具列表没有密钥操作，伪造的 `X-Forwarded-For` 不改变限额桶。
 
 ## 5. 主代理合并并验收

diff --git a/skills/original-page.md b/skills/original-page.md
@@ -26,11 +26,11 @@
 - `POST /pcp/v1/public/search`
 - `GET /media/{id}`
 
-公开页面的请求使用 `credentials: omit`。不要携带 API Key、访问令牌或主人的 Cookie。站点响应不 `Set-Cookie`。
+公开页面的请求使用 `credentials: omit`。不要携带 API Key、访问令牌或所属人的 Cookie。站点响应不 `Set-Cookie`。
 
 ## 从原始源码 zip 构建
 
-定制需要 `site:write` 或主人会话。调用 `get_site`（`GET /pcp/v1/site/source`）下载镜像内的原始页面源码 zip，文件名是 `original-page-source.zip`。这不是已上传的 dist。
+定制需要 `site:write` 或所属人会话。调用 `get_site`（`GET /pcp/v1/site/source`）下载镜像内的原始页面源码 zip，文件名是 `original-page-source.zip`。这不是已上传的 dist。
 
 在这份源码上修改。会变的事实在运行时向公开 PCP 读取，不写进构建产物。构建结果是一棵静态文件树：根目录有 `index.html`，未知路径保持 404，不把任意路径回退到 `/`。
 
@@ -48,7 +48,7 @@
 
 `preview_site` 的预览地址是 `/_preview/{releaseId}/`。release id 是 `rel_` 加上 32 个十六进制字符。预览匿名可开，不移动指针。
 
-预览之后调用 `activate_site`（`POST /pcp/v1/site/activate`）。目标只能是 `rel_...` 或 `original`。响应当下不移动指针。批准地址必须交给主人。Agent 不能调用 `POST /admin/site-activations/{id}/approve`。同意前不得声称已更换。拒绝、过期或一直没有决定时，线上路径保持不变。回到旧 release 或 `original` 也要重新申请并等待主人同意。没有删除 release 的接口。
+预览之后调用 `activate_site`（`POST /pcp/v1/site/activate`）。目标只能是 `rel_...` 或 `original`。响应当下不移动指针。批准地址必须交给所属人。Agent 不能调用 `POST /admin/site-activations/{id}/approve`。同意前不得声称已更换。拒绝、过期或一直没有决定时，线上路径保持不变。回到旧 release 或 `original` 也要重新申请并等待所属人同意。没有删除 release 的接口。
 
 ## 下一轮
 

diff --git a/openspec/changes/oneself-mvp/proposal.md b/openspec/changes/oneself-mvp/proposal.md
@@ -2,14 +2,14 @@
 
 ## Why
 
-仓库里只有 PRD 和架构，没有可以启动的应用。主人现在不能把资料放进自己的机器，也不能让访客或 Agent 用同一套规则读到它。这次变更把 v0.13 文档收成一个能在本机闭环跑起来的实现，并切成互不改同一批文件的工作包，方便多个 worktree 同时写、由主代理按顺序合并后再做最终验收。
+仓库里只有 PRD 和架构，没有可以启动的应用。所属人现在不能把资料放进自己的机器，也不能让访客或 Agent 用同一套规则读到它。这次变更把 v0.13 文档收成一个能在本机闭环跑起来的实现，并切成互不改同一批文件的工作包，方便多个 worktree 同时写、由主代理按顺序合并后再做最终验收。
 
 ## What Changes
 
 - 新增 pnpm 工作区：一个 Node 进程提供 PCP、MCP、OAuth、管理端和已发布站点。
 - 新增 Markdown 原文、Postgres 投影、原件、检索，以及 Facts、Timeline、标签和链接的回写。
 - 新增公开静态站：原始落地页、预览、申请后才移动的站点指针。
-- 新增主人登录、API Key 批准和 OAuth 2.1 设备码。密钥管理只走 HTTP。
+- 新增所属人登录、API Key 批准和 OAuth 2.1 设备码。密钥管理只走 HTTP。
 - 新增唯一 HTTPS 入口。默认 cloudflared，可改成 Caddy 或仅 tailnet 的 Tailscale Serve。
 - 不新增第二套应用、Redis、本地目录存储、Next.js 或独立 MCP 进程。
 
@@ -21,7 +21,7 @@
 - `originals`: 原件上传、挂接和按可见性吐字节。
 - `retrieval`: 已授权检索、公开检索、过滤查询和事实回忆。
 - `site`: 单一静态站、公开 PCP、原始页面、预览和批准后才移动的指针。
-- `access`: 主人会话、API Key、设备码，以及统一的 `authorize`。
+- `access`: 所属人会话、API Key、设备码，以及统一的 `authorize`。
 - `protocol`: 发现文档、OpenAPI 与 MCP 同操作，错误体和两份 Skill 字节一致。
 - `ingress`: 一个对外源、三个互斥入口 profile，以及按真实客户端地址限流。
 

diff --git a/openspec/changes/oneself-mvp/design.md b/openspec/changes/oneself-mvp/design.md
@@ -2,7 +2,7 @@
 
 ## Context
 
-仓库现在没有应用代码。行为已经写在 `docs/PRD.md` 和 `docs/ARCHITECTURE.md` v0.13。见 `proposal.md` 的 Why。实现必须能在一台机器上跑通「写入一页、公开页被原始落地页读到、主人批准后指针才移动」。
+仓库现在没有应用代码。行为已经写在 `docs/PRD.md` 和 `docs/ARCHITECTURE.md` v0.13。见 `proposal.md` 的 Why。实现必须能在一台机器上跑通「写入一页、公开页被原始落地页读到、所属人批准后指针才移动」。
 
 并行约束：后面会有多个 subagent，各自使用独立 git worktree。主代理把分支合并回 `main`，再跑最终验收。因此每个工作包只能拥有自己的目录；根清单、锁文件和 `compose.yaml` 只有主代理能改。
 
@@ -100,7 +100,7 @@ subagent 不推 `main`，不互相改 worktree。主代理按「domain、operati
 
 ## Migration Plan
 
-没有旧数据。首次启动创建主人并要求改密。回滚是停掉 compose 并丢弃开发卷；不提供生产数据迁移。
+没有旧数据。首次启动创建所属人并要求改密。回滚是停掉 compose 并丢弃开发卷；不提供生产数据迁移。
 
 入口切换只改 `COMPOSE_PROFILES` 和 `PUBLIC_ORIGIN`。换域名后，已保存旧发现地址的 Agent 必须重新读取 `/.well-known/pcp`。
 

diff --git a/README_EN.md b/README_EN.md
@@ -149,7 +149,7 @@ See [`.env.example`](.env.example) for every variable with comments. `.env` is g
 ## 🧱 Architecture
 
 <p align="center">
-  <img src="docs/images/architecture.png" alt="OneSelf architecture: browsers open the site served by pointer and read the public PCP anonymously; any AI agent uses an API key or device-flow token you approved to call the same PCP operation table; one Node.js process stores pages, originals, and site bundles in RustFS and the index, grants, and site pointer in PostgreSQL" width="100%" />
+  <img src="docs/images/architecture.png" alt="OneSelf architecture: you, the account owner, approve and revoke access and curate your context in the admin UI; any AI agent or script connects to the PCP (HTTP and MCP, same operations) with an API key or OAuth device code you approved; visitors open the public homepage, which reads public content only; personal context is pages plus originals, with per-source grants, private by default and revertible versions, stored in self-hosted RustFS and PostgreSQL" width="100%" />
 </p>
 
 - **One process**: PCP, MCP, OAuth, the admin static files, and the published site are all served by one Hono app. No microservices, no Redis, no queue.

diff --git a/README.md b/README.md
@@ -149,7 +149,7 @@ node --env-file=.env --experimental-strip-types apps/server/src/index.ts
 ## 🧱 架构
 
 <p align="center">
-  <img src="docs/images/architecture.png" alt="OneSelf 系统架构：浏览器打开按指针提供的站点并匿名读取公开 PCP；任意 AI Agent 用所属人批准的 API Key 或 OAuth 设备码令牌调用同一份 PCP 操作表；单个 Node.js 进程使用 RustFS 保存页面、原件和站点包，使用 PostgreSQL 保存索引、授权和站点指针" width="100%" />
+  <img src="docs/images/architecture.png" alt="OneSelf 架构：所属人在管理端批准授权、随时收回，并整理个人上下文；任意 AI Agent / 脚本用所属人批准的 API Key 或 OAuth 设备码接入 PCP（HTTP 与 MCP 同一套操作）；访客打开公开主页，只读取公开内容；个人上下文由页面和原件组成，按目录授权、默认私有、版本可回退，存放在自托管的 RustFS 与 PostgreSQL" width="100%" />
 </p>
 
 - **一个进程**：PCP、MCP、OAuth、管理端静态文件和已发布站点都由同一个 Hono 应用提供，不拆微服务，也没有 Redis 或队列。
